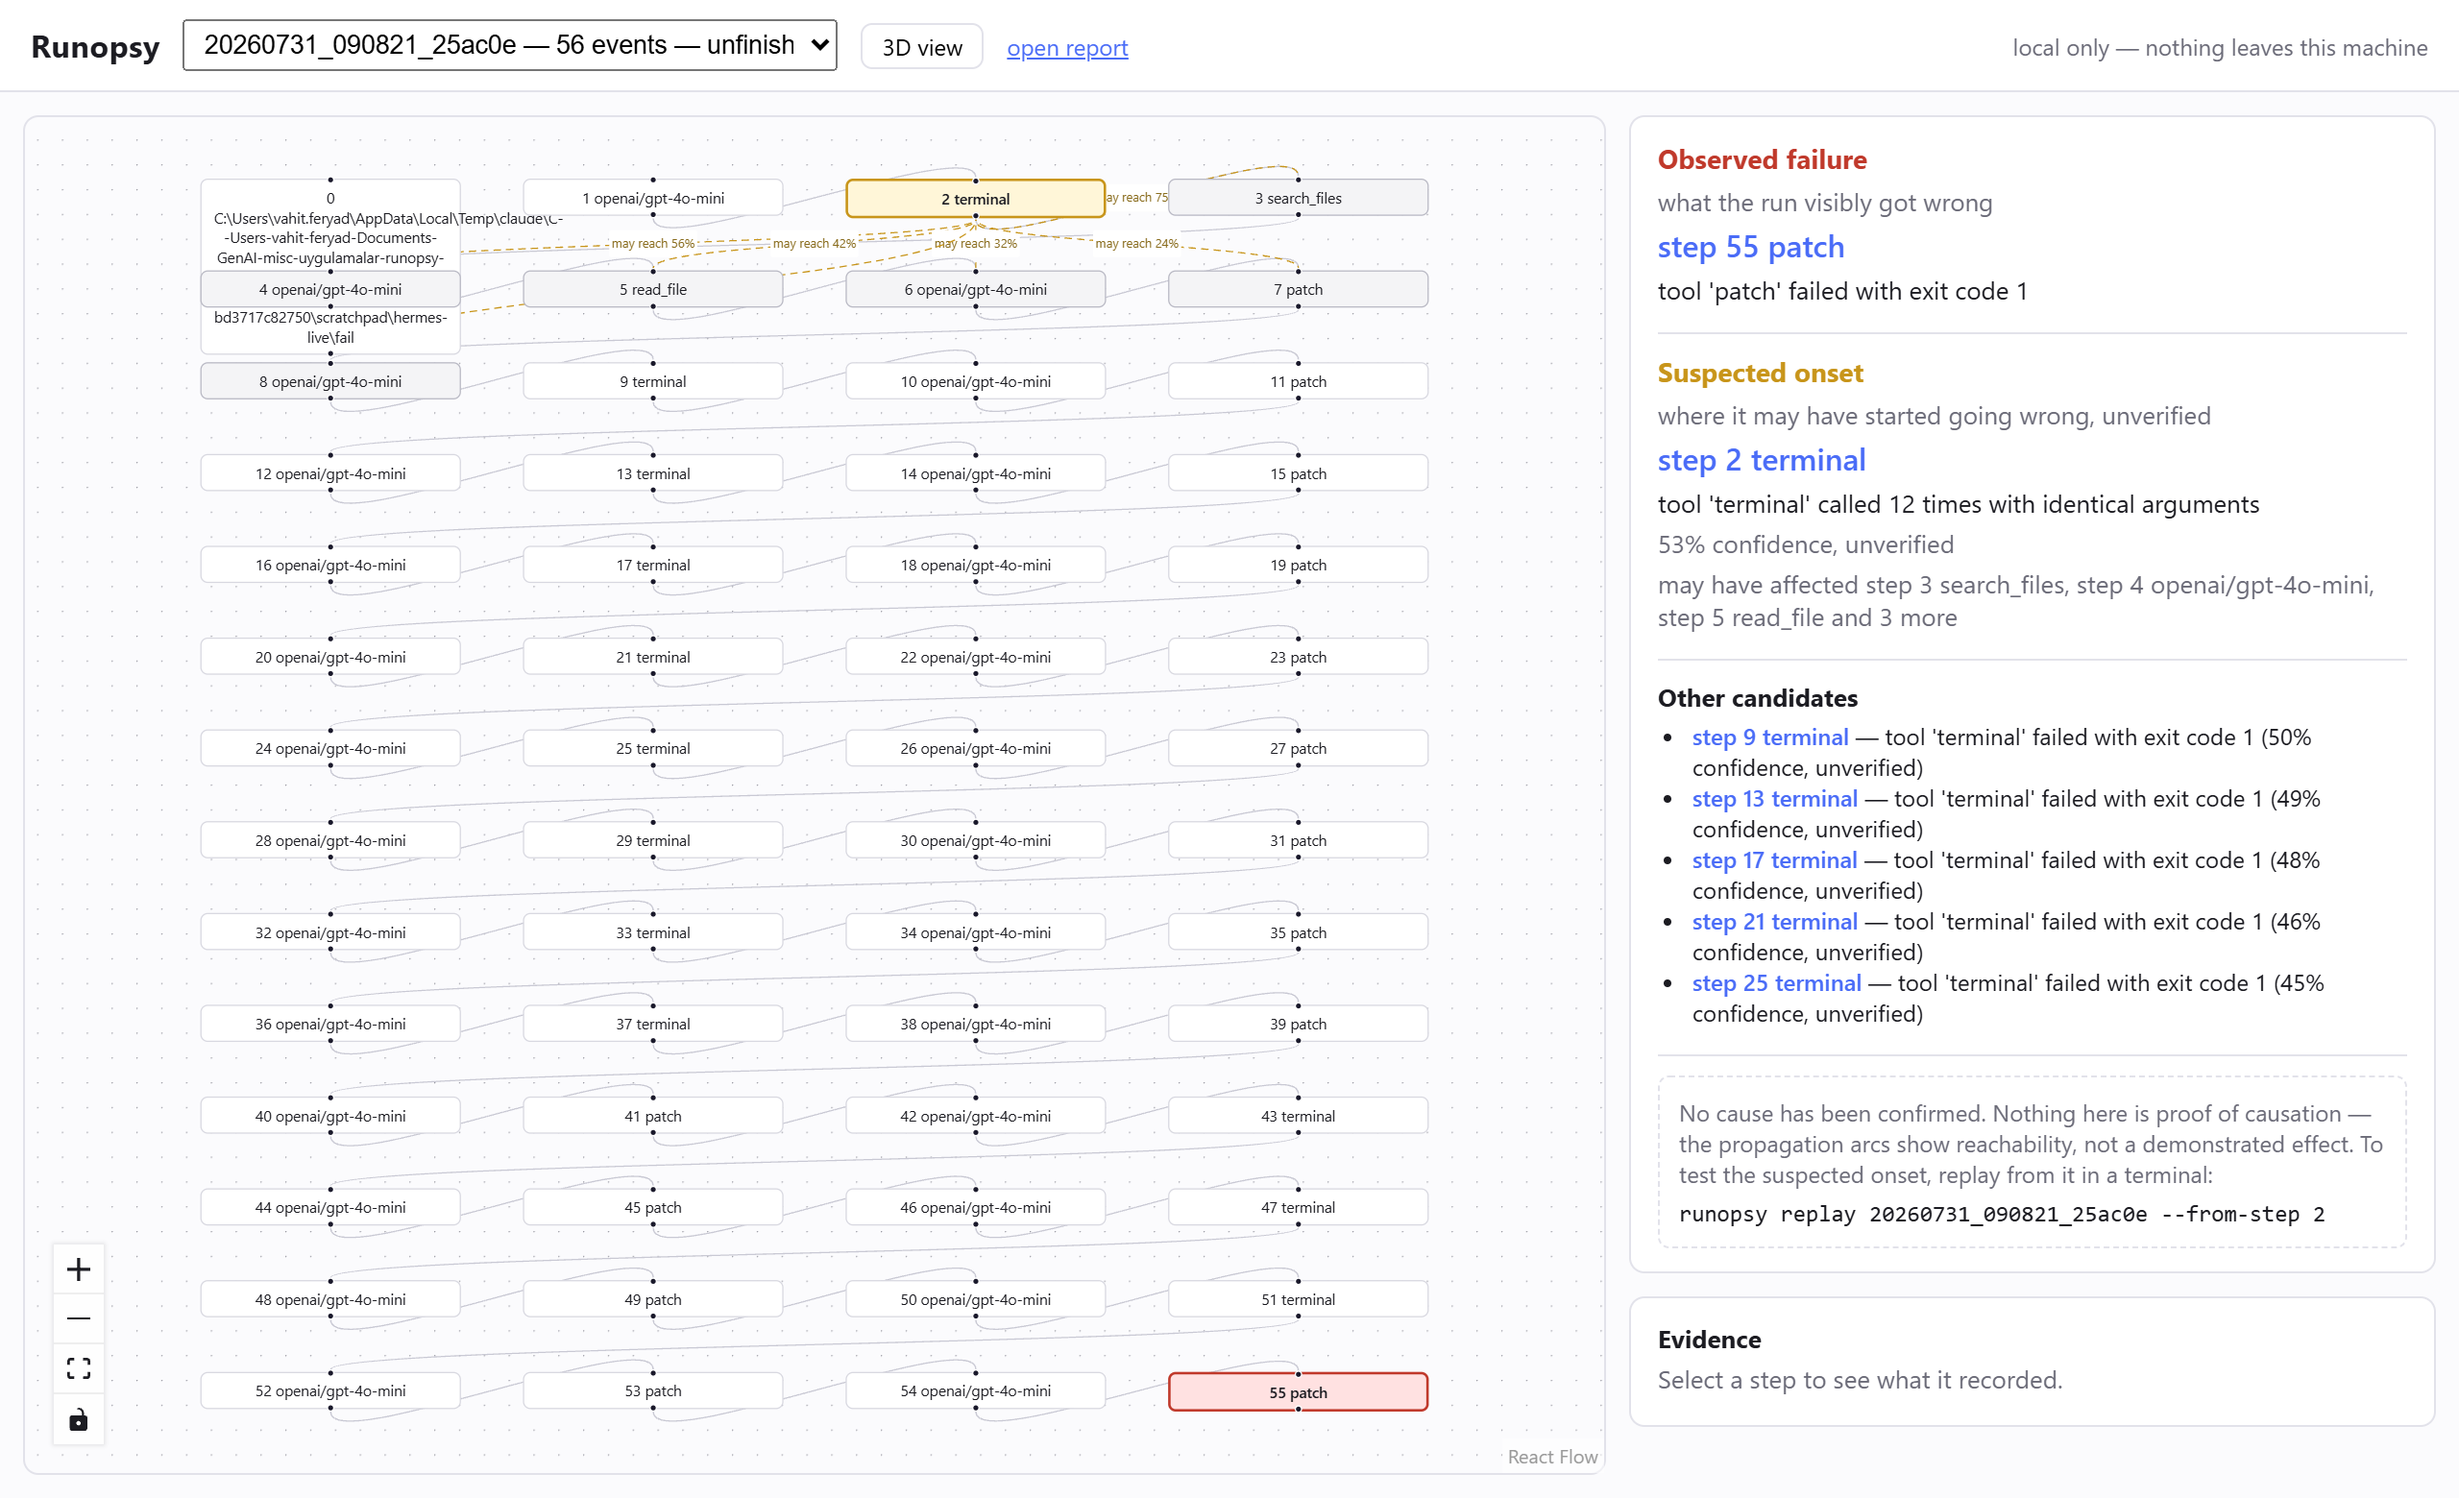
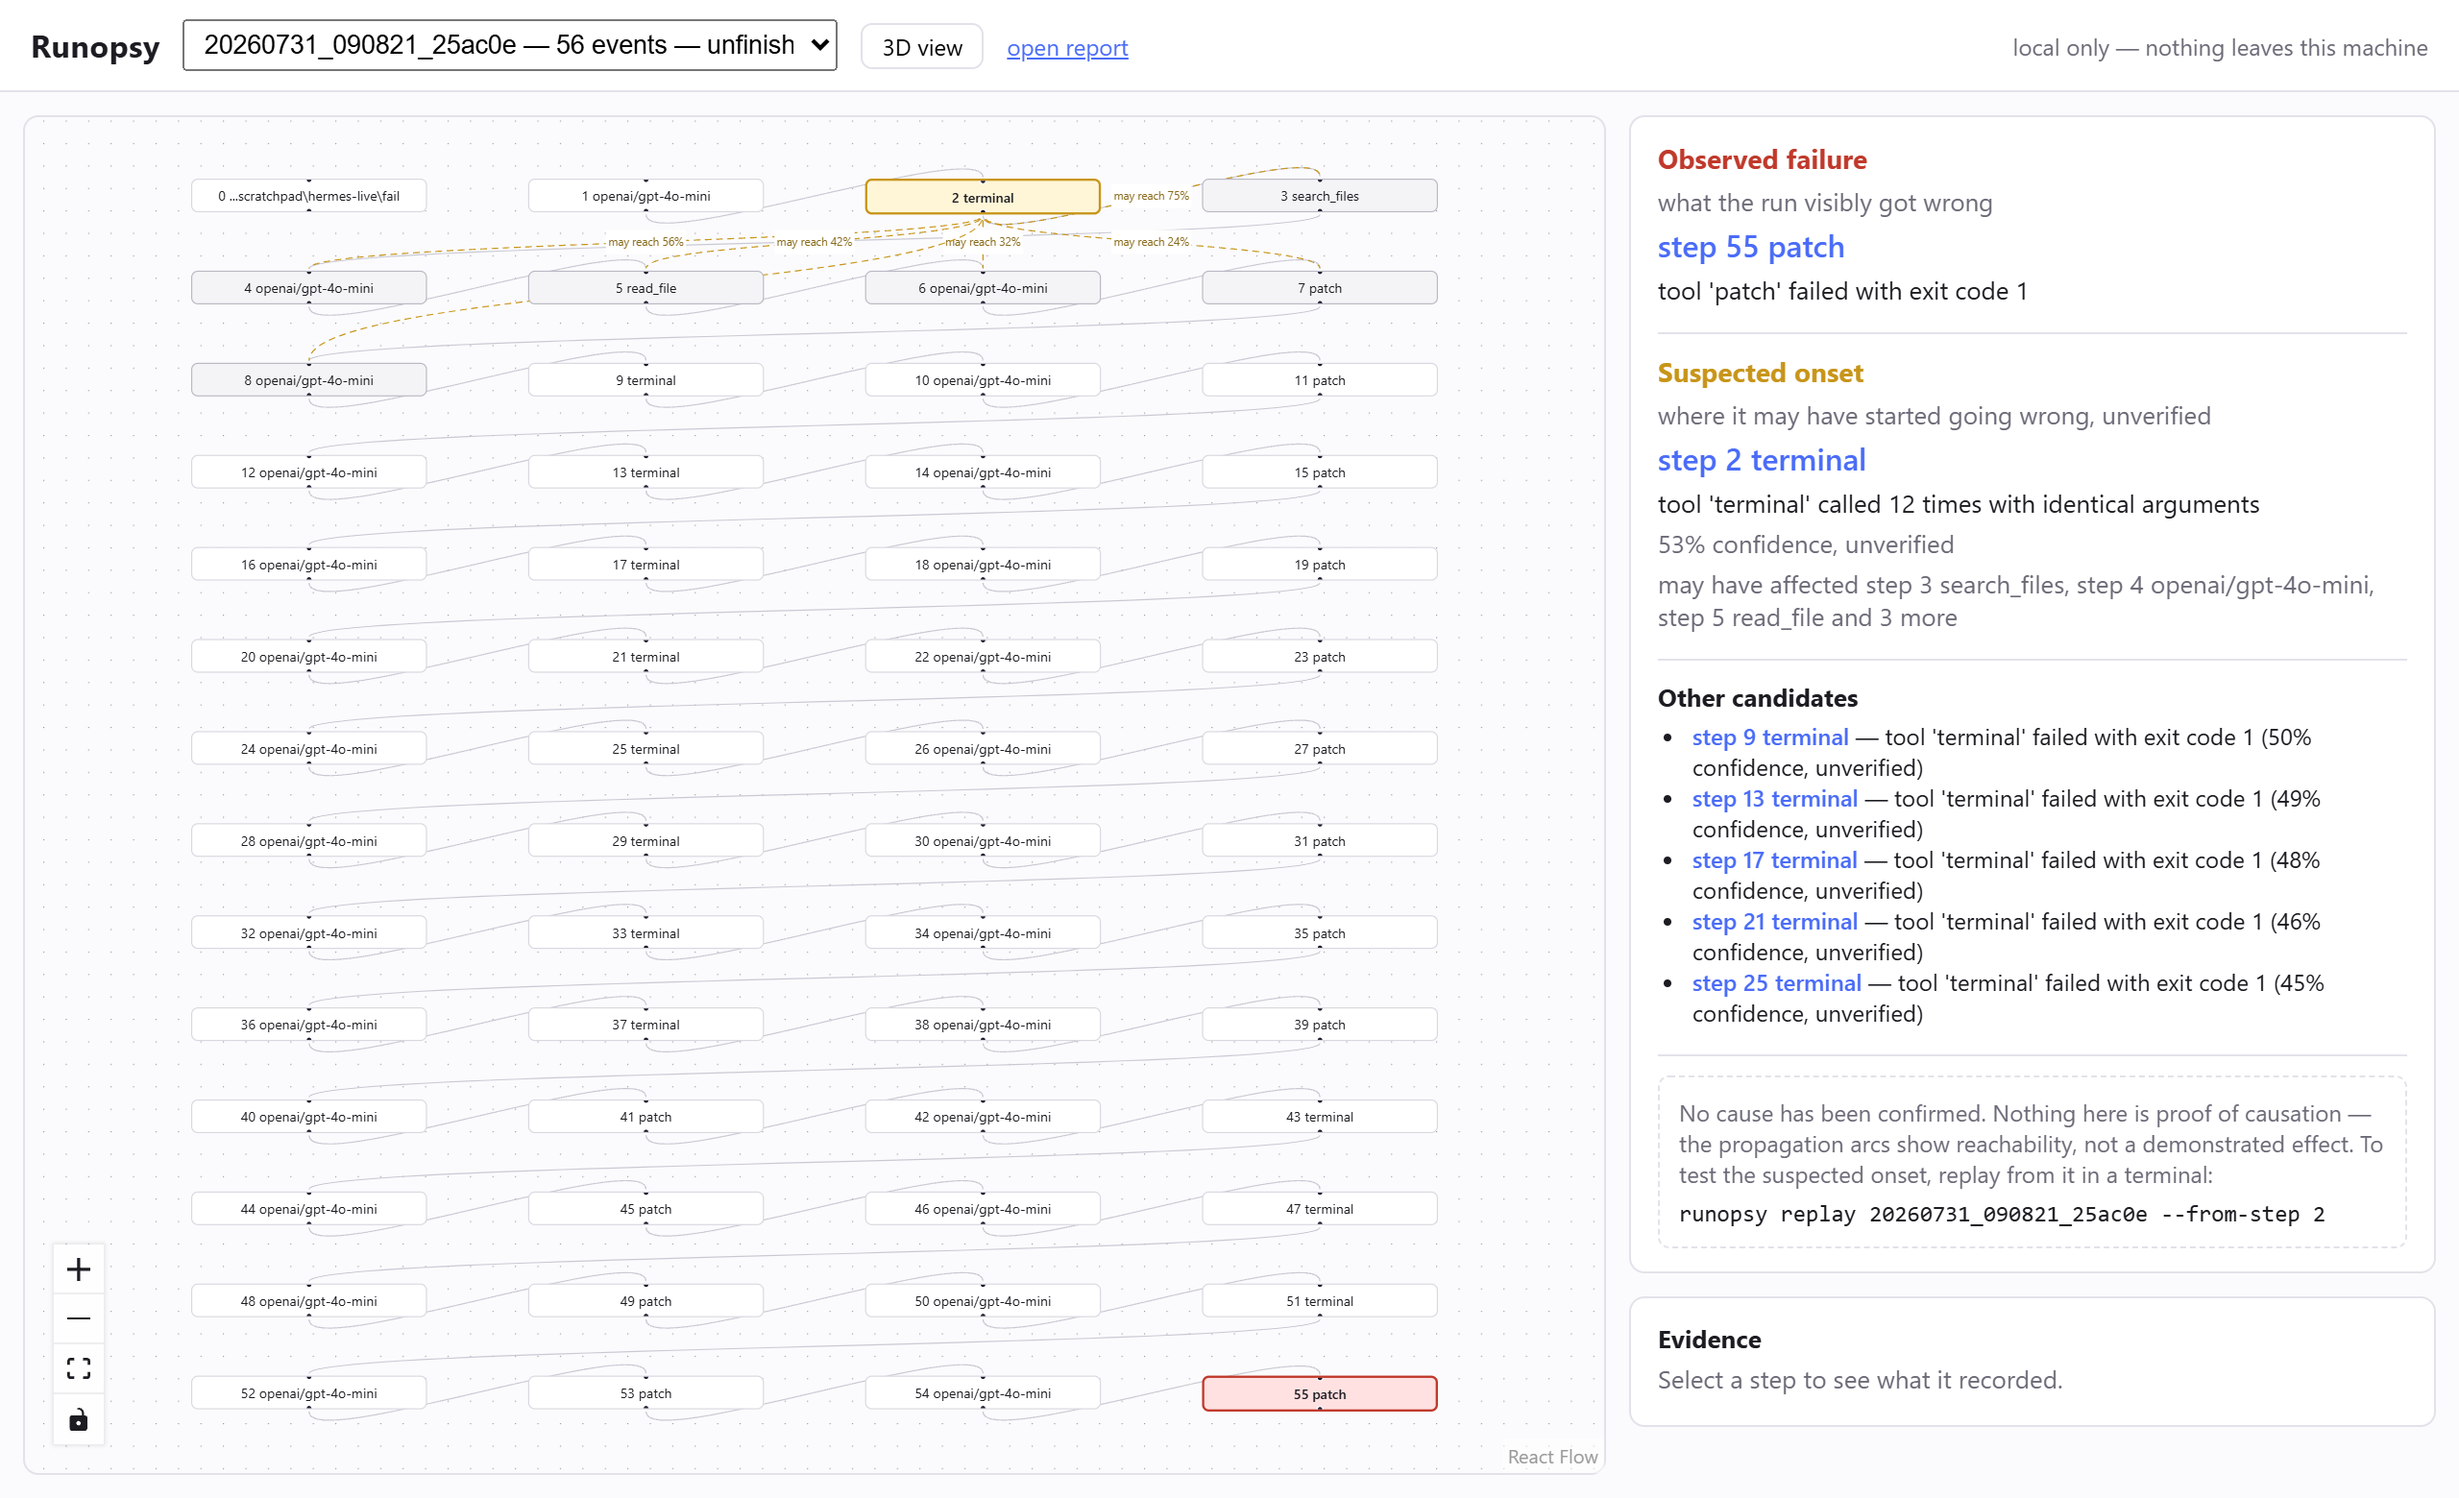
Stop a repository path from covering the trace in the web view
Asked whether the images were actually right, I looked properly at the 2D one for
the first time and found two defects I had claimed were fine.

A run's label is its task, and a task is usually a repository path. Left whole it
overflowed its node, wrapped onto three lines and covered the two steps beneath
it — so the first thing anyone saw in the web view was a filesystem path obscuring
the graph. The terminal renderer has truncated for exactly this reason since it
was written; this view simply never got the same treatment. It now keeps the end
of a path rather than the start, because `...\hermes-live\fail` identifies the run
while `C:\Users\someone\AppData\...` identifies everybody's machine. The full text
stays available as a title attribute, and the node style refuses to grow whatever
a future runtime puts in a label.

The propagation labels were also being clipped: at 260px columns a "may reach 75%"
ran under the box beside it and lost its last characters. The column and row
spacing now leave room for the one piece of text on this screen that carries a
number.

Both were visible in an image I had already committed and described as correct.
Rendering something and looking at it are different acts, which is the same lesson
the 3D camera taught an hour ago.

diff --git a/packages/runopsy-ui/src/FailureMap.tsx b/packages/runopsy-ui/src/FailureMap.tsx
@@ -14,8 +14,27 @@ import { useMemo } from "react";
 import type { Candidate, GraphResponse } from "./api";
 import { useSelection } from "./store";
 
-const COLUMN = 260;
-const ROW = 74;
+// Nodes are 210 wide; the gap between columns has to hold a "may reach 42%" label
+// without it colliding with the box beside it.
+const COLUMN = 300;
+const ROW = 82;
+const MAX_LABEL = 30;
+
+/** One line that fits the box.
+ *
+ * A run's label is its task, and a task is often a repository path. Left whole it
+ * overflowed the node, wrapped across three lines and covered the two steps below it —
+ * so the first thing anyone saw in the web view was a filesystem path obscuring the
+ * trace. The terminal graph has truncated for exactly this reason since it was written;
+ * this view simply never got the same treatment.
+ */
+function fitLabel(text: string): string {
+  const flat = text.replace(/\s+/gu, " ").trim();
+  if (flat.length <= MAX_LABEL) return flat;
+  // Keep the end of a path rather than the start: `...\hermes-live\fail` identifies the
+  // run, `C:\Users\someone\AppData\...` identifies everybody's machine.
+  return "..." + flat.slice(-(MAX_LABEL - 3));
+}
 
 type Props = {
   graph: GraphResponse;
@@ -59,11 +78,17 @@ export function FailureMap({ graph, onset, observedFailureNodeId }: Props) {
               x: (index % 4) * COLUMN,
               y: Math.floor(index / 4) * ROW,
             },
-            data: { label: `${node.sequence}  ${node.label || node.kind}` },
+            data: { label: `${node.sequence}  ${fitLabel(node.label || node.kind)}` },
+            title: node.label || node.kind,
             style: {
               ...STYLES[role],
               borderRadius: 6,
               padding: "6px 10px",
+              // Belt and braces with fitLabel: a node must never grow to fit its text
+              // and cover the steps around it, whatever a future runtime puts here.
+              whiteSpace: "nowrap",
+              overflow: "hidden",
+              textOverflow: "ellipsis",
               fontSize: 12,
               width: 210,
               outline: node.node_id === focused ? "3px solid #4a6cf7" : undefined,
